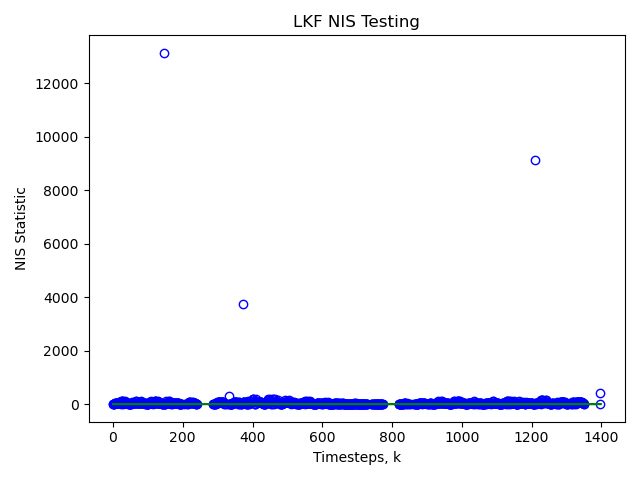
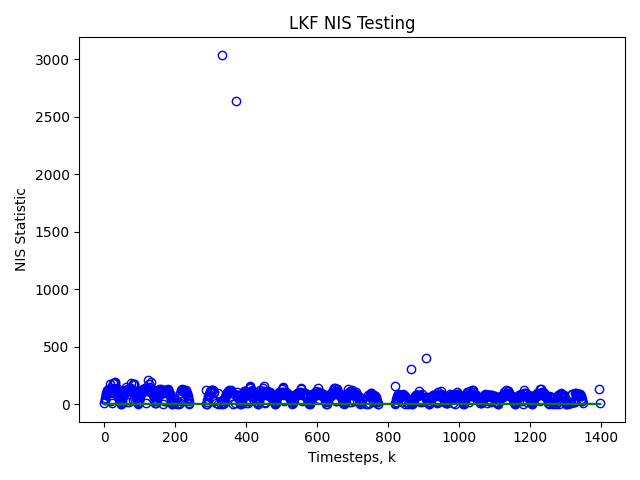
aj lkf testing

diff --git a/ASEN_5044_final_aj_fatah.py b/ASEN_5044_final_aj_fatah.py
@@ -631,7 +631,7 @@ def LKF(x0, P0, dT, T, Qtrue, Rtrue, ydata, Q_LKF = np.eye(2)*1e-10, plot=False)
     # initialize at t=0
     x_hat_plus = np.array(x0)
     P_plus = P0
-    dx0 = [0,0.075,0,-0.021]
+    dx0 = [68,0.075,68,-0.075]
     dx_hat_vals = np.random.multivariate_normal(dx0, P_plus)
     dx_hat_plus = np.array([[dx_hat_vals[0]],[dx_hat_vals[1]],[dx_hat_vals[2]],[dx_hat_vals[3]]])
     du = np.zeros((2,1))
@@ -646,12 +646,12 @@ def LKF(x0, P0, dT, T, Qtrue, Rtrue, ydata, Q_LKF = np.eye(2)*1e-10, plot=False)
     NIS_list         = []
 
     # ground truth values
-    xstar, x_nom = monte_carlo_states_tmt(x0,Qtrue,T,False)
+    x_tmt, xstar = monte_carlo_states_tmt(x0,Qtrue,T,False)
 
-    t_idx = 1
+    # t_idx = 1
     for t in range(dT,T,dT):
+        t_idx = int(t/dT)
         # calculate nominal orbit at time k+1
-        # x, xdot, y, ydot = nominal_orbit(t)
         x_nom_t = xstar.y[:,t_idx]
         x_nom = np.array([[x_nom_t[0]],[x_nom_t[1]],[x_nom_t[2]],[x_nom_t[3]]])
 
@@ -733,11 +733,11 @@ def LKF(x0, P0, dT, T, Qtrue, Rtrue, ydata, Q_LKF = np.eye(2)*1e-10, plot=False)
             NIS_list.append(NIS(yk1, ystar, S_k))
         
         else: 
-            
             # Covariance Matrix
             P_plus = P_minus
 
             # state estimate
+            dx_hat_plus = dx_hat_minus
             x_hat_plus = x_nom
             
             # NIS Calculation
@@ -748,11 +748,8 @@ def LKF(x0, P0, dT, T, Qtrue, Rtrue, ydata, Q_LKF = np.eye(2)*1e-10, plot=False)
 
         t_list.append(t)
         
-        # # FOR NEXT TIMESTEP, calculate new F_tilde, G_tilde, Omega_tilde, H_tilde_all
-        # F_tilde, G_tilde, Omega_tilde, H_tilde_all = eulerized_dt_jacobians(x_nom, dT, t)
-        
         # NEES Calculation
-        NEES_list.append(NEES(xstar.y[:,t_idx], x_hat_plus, P_plus))
+        NEES_list.append(NEES(x_tmt.y[:,t_idx], x_hat_plus, P_plus))
         
         # NEES/NIS Debug
         # print("NEES: ", NEES_list[t_idx-1])
@@ -810,10 +807,10 @@ def LKF(x0, P0, dT, T, Qtrue, Rtrue, ydata, Q_LKF = np.eye(2)*1e-10, plot=False)
         if t in t_list:
             t_all_idx  = int(t/10)
             t_list_idx = t_list.index(t)
-            x_err.append(xstar.y[0,t_all_idx] - np.squeeze(np.asarray(x_hat_plus_tot[0]))[t_list_idx])
-            xdot_err.append(xstar.y[1,t_all_idx] - np.squeeze(np.asarray(x_hat_plus_tot[1]))[t_list_idx])
-            y_err.append(xstar.y[2,t_all_idx] - np.squeeze(np.asarray(x_hat_plus_tot[2]))[t_list_idx])
-            ydot_err.append(xstar.y[3,t_all_idx] - np.squeeze(np.asarray(x_hat_plus_tot[3]))[t_list_idx])
+            x_err.append(x_tmt.y[0,t_all_idx] - np.squeeze(np.asarray(x_hat_plus_tot[0]))[t_list_idx])
+            xdot_err.append(x_tmt.y[1,t_all_idx] - np.squeeze(np.asarray(x_hat_plus_tot[1]))[t_list_idx])
+            y_err.append(x_tmt.y[2,t_all_idx] - np.squeeze(np.asarray(x_hat_plus_tot[2]))[t_list_idx])
+            ydot_err.append(x_tmt.y[3,t_all_idx] - np.squeeze(np.asarray(x_hat_plus_tot[3]))[t_list_idx])
 
     if plot:
         fig, ax = plt.subplots(4,1,sharex=True)
@@ -843,6 +840,11 @@ def LKF(x0, P0, dT, T, Qtrue, Rtrue, ydata, Q_LKF = np.eye(2)*1e-10, plot=False)
             lower_bounds = lower_bounds
             ax[i].plot(t_list, upper_bounds, 'r-')
             ax[i].plot(t_list, lower_bounds, 'r-')
+
+        ax[0].set_ylim([-250,250])
+        ax[1].set_ylim([-2.5,2.5])
+        ax[2].set_ylim([-250,250])
+        ax[3].set_ylim([-2.5,2.5])
 
         fig.legend(['Filter Error', 'Filter 2sigma bounds'], loc='lower center', bbox_to_anchor=(0.5,0))
 
@@ -1172,29 +1174,27 @@ if __name__ == "__main__":
     ydata_sim = monte_carlo_measurements_tmt(x0,Qtrue,Rtrue,T,plot=False)
     
     # KF Tunings
-    Q_LKF = np.diag([1e-6,1e-6])
-    P0_LKF = np.diag([1e-1,1e-2,1e-1,1e-2])
-    Q_EKF = np.eye(2) * 1e-6
-    P0_EKF = np.diag([10,0.1,10,0.1])
+    Q_LKF = np.diag([1e-2,1e-2])
+    P0_LKF = np.diag([3.5,0.7,3.5,0.7])
     
     start = time()
-    # NEES_array = []
-    # NIS_array = []
-    
-    # for i in range(num_mc_runs):
-    #     if i == 0:
-    #         plot_arg = True
-    #     else:
-    #         plot_arg = False
-    #     res_lkf = LKF(x0, P0_LKF, dT, T, Qtrue, Rtrue, ydata_sim, Q_LKF=Q_LKF, plot=plot_arg)#, plot=True)
-    #     NEES_array.append(res_lkf[3])
-    #     NIS_array.append(res_lkf[4])
-    # print("LKF elapsed:", time() - start)
+    NEES_array = []
+    NIS_array = []
+
+    for i in range(num_mc_runs):
+        if i == 0:
+            plot_arg = True
+        else:
+            plot_arg = False
+        res_lkf = LKF(x0, P0_LKF, dT, T, Qtrue, Rtrue, ydata_sim, Q_LKF=Q_LKF, plot=plot_arg)#, plot=True)
+        NEES_array.append(res_lkf[3])
+        NIS_array.append(res_lkf[4])
+    print("LKF elapsed:", time() - start)
         
-    # nis_lkf, stat_nis_lkf = NIS_Chi2_Test(np.asarray(NIS_array).T, num_meas, num_mc_runs, alpha, title="LKF NIS Testing")    
-    # NEES_Chi2_Test(np.asarray(NEES_array).T, num_states, num_mc_runs, alpha, title="LKF NEES Testing")
+    nis_lkf, stat_nis_lkf = NIS_Chi2_Test(np.asarray(NIS_array).T, num_meas, num_mc_runs, alpha, title="LKF NIS Testing")    
+    NEES_Chi2_Test(np.asarray(NEES_array).T, num_states, num_mc_runs, alpha, title="LKF NEES Testing")
     
-    # print(stat_nis_lkf)
+    print(stat_nis_lkf)
     
     def run_ekf(Q_EKF):
         NEES_array = []
